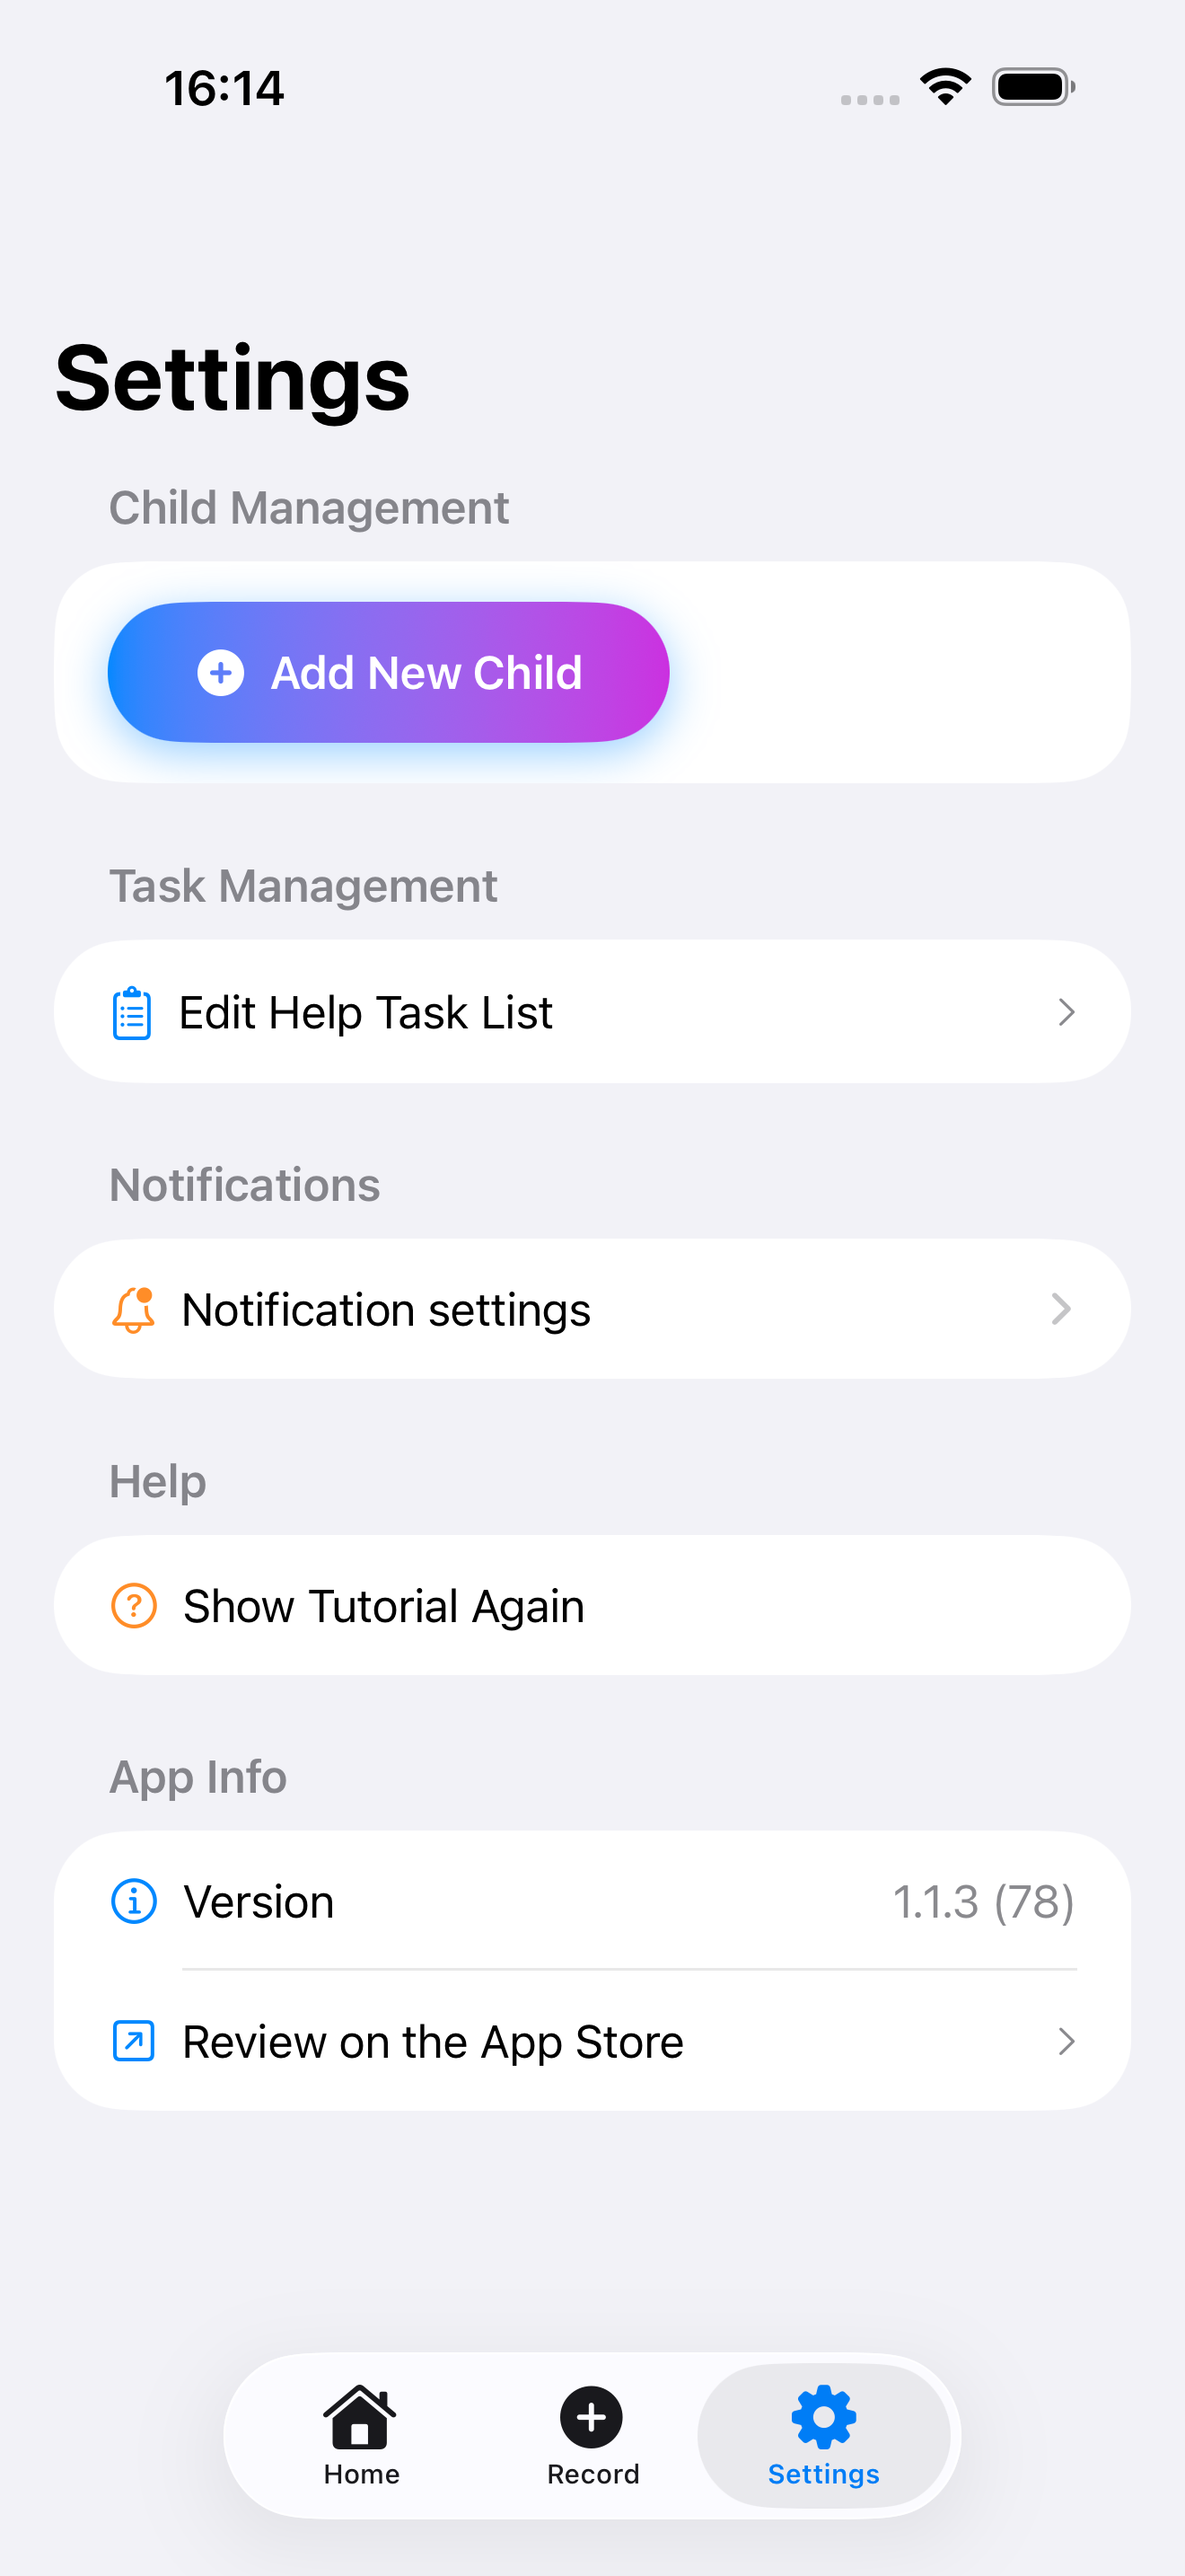
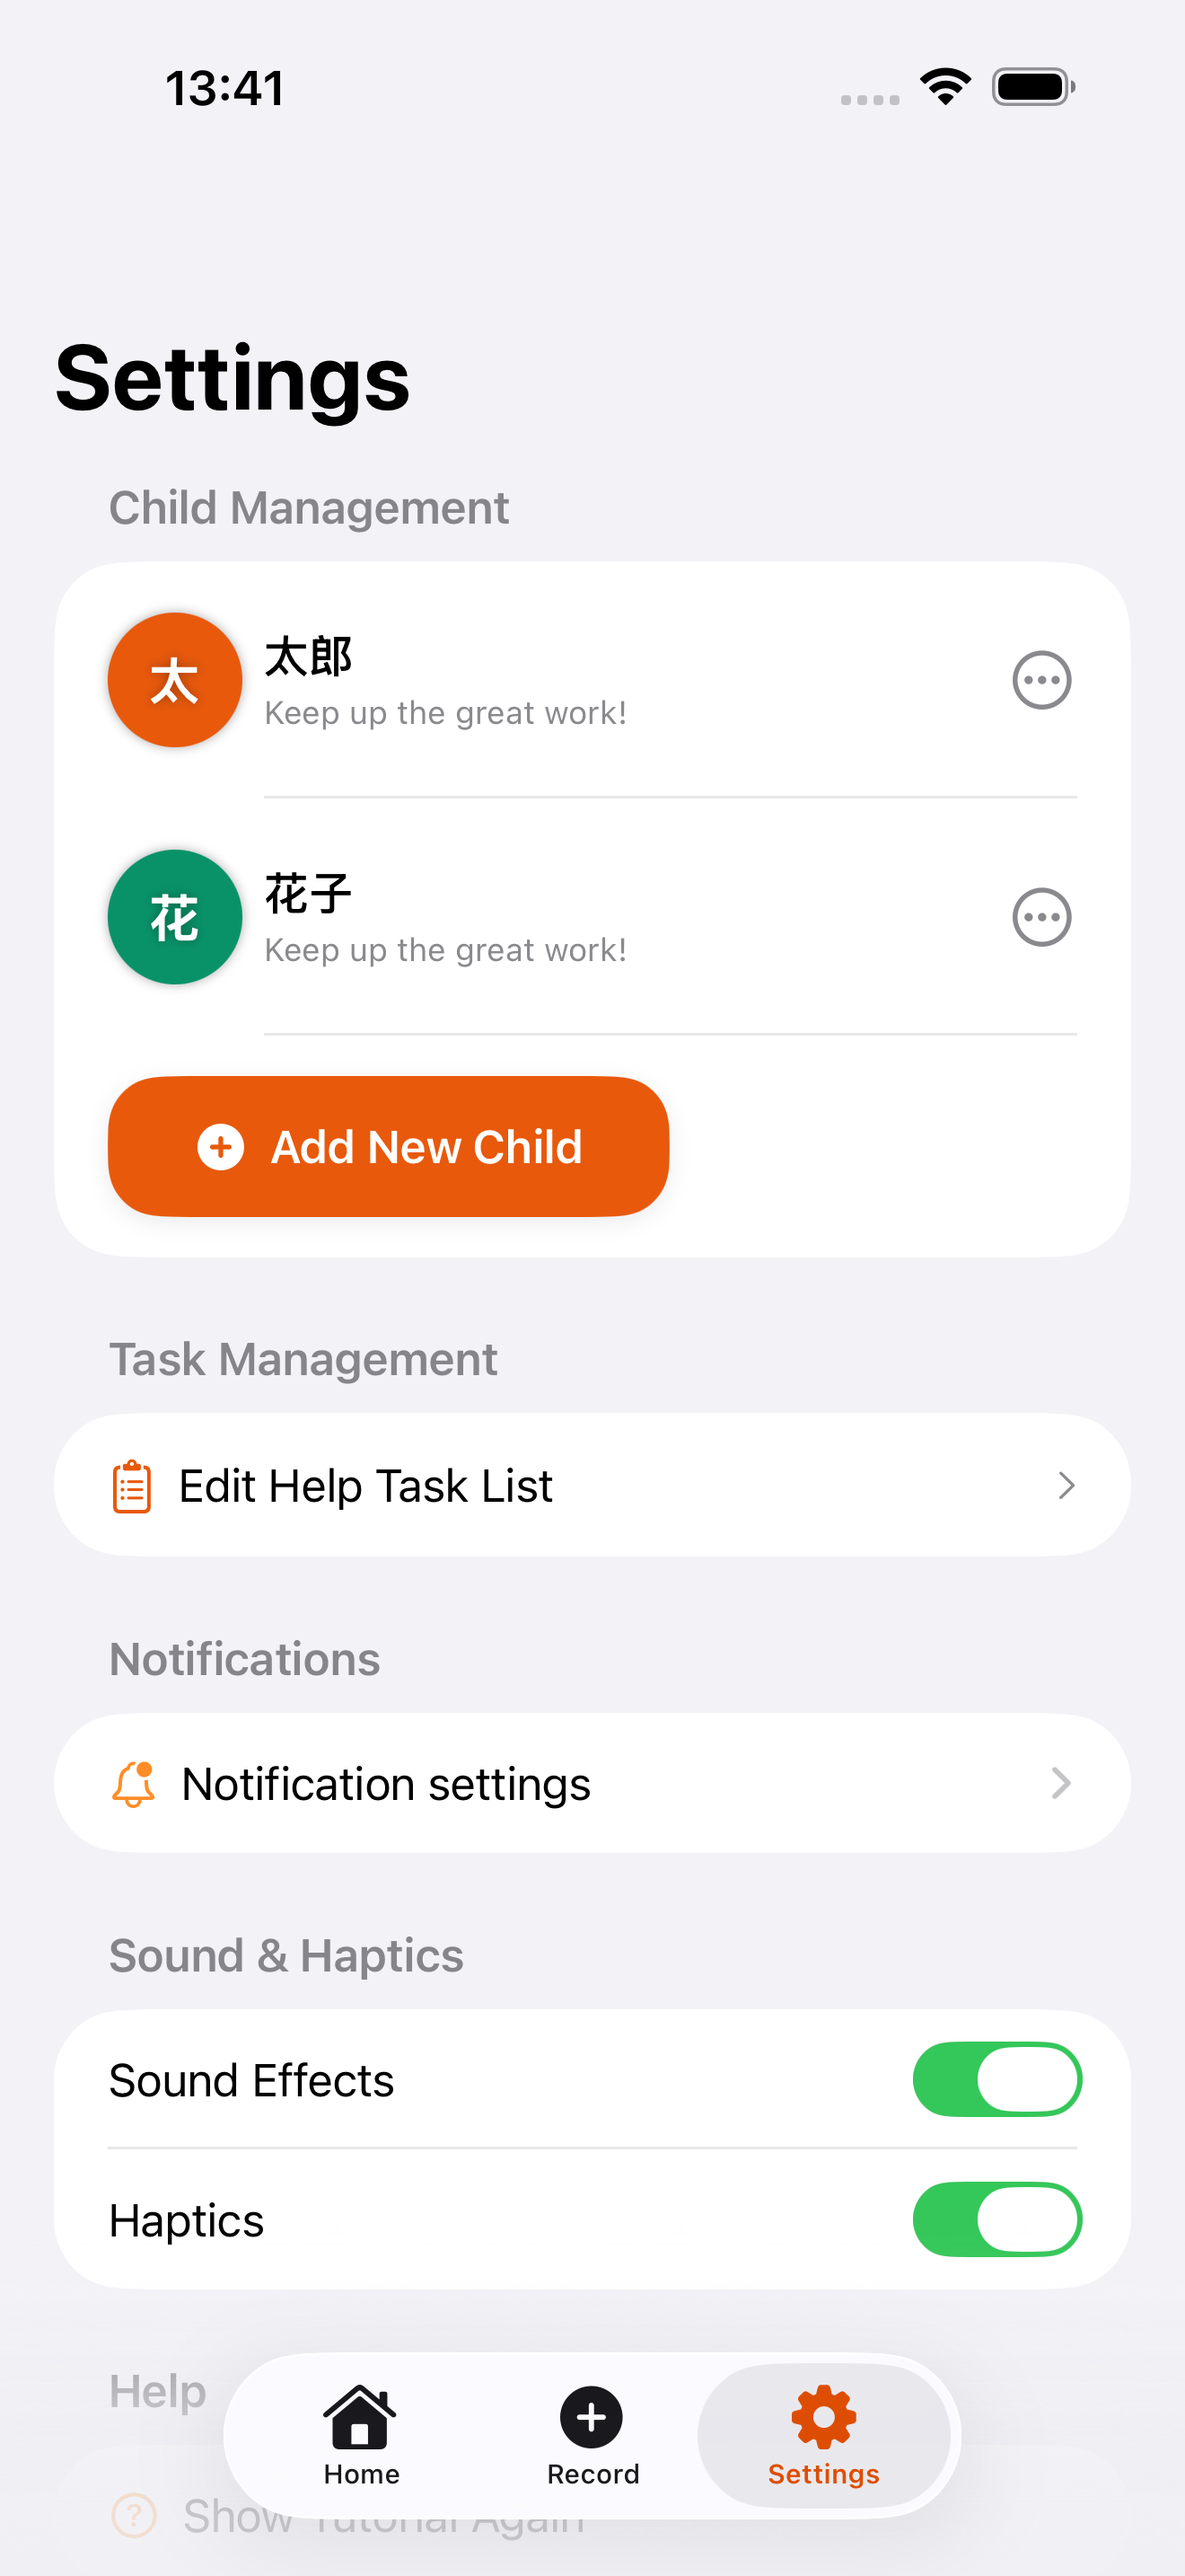
release: v1.1.4 (MARKETING_VERSION 1.1.4 / build 119) + 手順書・What's New・ASC スクショ
- v1.1.3 は ASC 未提出だったため変更を v1.1.4 に統合 (#225)
- RELEASE_v1.1.4.md: 1.1.2 (公開中) からの差分で What's New ja/en を作成
- RELEASE_v1.1.3.md に未使用の注記
- fastlane/metadata/en-US の release_notes / promotional_text を v1.1.4 文面へ
- ASC スクショ ja/en を light 固定で再撮影

Refs #225

Claude-Session: https://claude.ai/code/session_01EyFKuKWwFACwRXBfUsED4s

diff --git a/docs/releases/RELEASE_v1.1.4.md b/docs/releases/RELEASE_v1.1.4.md
@@ -1,0 +1,159 @@
+# v1.1.4 リリース手順書
+
+このドキュメントは v1.1.4 を App Store Connect (ASC) へ提出するための手順書です。ASC への入力は `asc-submission-prep` skill (Chrome 経路) で行い、「審査へ提出」だけを人が押します。追跡 issue: #225。
+
+## 0. 前提条件
+
+- ASC で公開中: **1.1.2** (ビルド 72、2026-05-24 公開)。2026-09-27 に iTunes Lookup API と ASC 配信タブで実測
+- **1.1.3 は一度も提出していない** (`v1.1.3` タグと `RELEASE_v1.1.3.md` はあるが、ASC にバージョンレコードが無い)。1.1.3 用の変更は本リリースにすべて含める
+- Marketing Version: **1.1.4** (公開中 1.1.2 より高く、CI gate の基準タグ `v1.1.3` よりも高い)
+- Build Number: pbxproj は **119** (TestFlight 上の 1.1.3 ビルドの最新 118 から +1)。Xcode Cloud は独自に採番するので、実際に紐付けるビルド番号は TestFlight で確認する
+- ASC Age Rating で「広告」=「はい」(#86、AdMob 統合済みのため必須)
+
+> 着手前に公開中の version を実測する (CLAUDE.md「公開中の version を実測」ルール):
+>
+> ```bash
+> curl -s "https://itunes.apple.com/lookup?id=6747692379&country=jp" | jq -r '.results[0] | .version, .currentVersionReleaseDate'
+> ```
+
+## 1. App Store Connect での作業 (`asc-submission-prep`)
+
+| 手順 | 担当 | 備考 |
+|---|---|---|
+| dry-run で差分表を作る | Claude | 書き込み 0 件 |
+| 差分表の一括 OK | 人 | 表に無い書き込みはしない |
+| バージョン `1.1.4` の作成 | Claude (OK 後) | 作成したバージョンは消せない |
+| What's New (ja / en)・プロモーションテキストの入力 | Claude (OK 後) | § 2 の文面 |
+| en スクショの反映 | Claude (OK 後) | § 1.1 |
+| ビルドの紐付け | Claude (OK 後) | バージョン 1.1.4・提出準備完了の最新ビルド |
+| 年齢制限の新しい質問 (ソーシャルメディア関連)・App Privacy・輸出コンプライアンス | **人** | 申告なので Claude は回答しない。輸出コンプライアンスは従来どおり「使用しません (exempt)」、ATT / IDFA は「いいえ」 |
+| 「審査用に追加」→「審査へ提出」 | **人** | |
+
+### 1.1 スクリーンショット
+
+- `./scripts/capture-asc-screenshots.sh` で ja / en の 3 画面を撮り直した (#218 で撮影時は light 固定)。出力は `docs/screenshots/asc/v1.1.x/{ja,en}/`
+- **ja**: ASC にはデザイン済みのマーケティング画像 (黄色背景 + 見出し付き) が入っているため、生のスクショでは置き換えない
+- **en**: ASC では ja 6.9" の画像を流用している (en 用は未登録、#50)。en の生スクショを登録するかどうかは差分表の確認時に決める
+
+### 1.2 変更しない項目
+
+アプリ名・サブタイトル・説明文・キーワード・サポート URL・価格・配信地域は変更しない。en の説明文とキーワードは `fastlane/metadata/en-US/` と ASC の内容が一致している (2026-09-27 に字数で確認)。
+
+## 2. 文言ドラフト
+
+### 2.1 このバージョンの新機能 (What's New) — ja
+
+> 対象は 1.1.2 (公開中) → 1.1.4 の差分。1.1.2 で案内済みの「一括モード」「重複記録の警告」は含めない。
+
+```text
+バージョン 1.1.4 では、お手伝いの記録をもっと楽しく、見やすくするアップデートをまとめてお届けします ✨
+
+✨ 新機能
+・お手伝いに絵文字アイコンを付けられるようになりました。お手伝いの追加・編集画面で好きな絵文字を選べます
+・お手伝いの並び順を自由に入れ替えられるようになりました。「よく使う順」ボタンで一発で並べ替えることもできます
+・記録画面にカレンダーを追加しました。記録した日がひと目で分かります
+・「月のまとめ」画面をリニューアルし、カレンダーとお小遣いの支払いを 1 つの画面で確認できるようになりました
+・記録やお手伝いを選んだときに、振動で手ごたえが伝わるようになりました。設定画面の「サウンドと触覚」で効果音と振動をそれぞれオン/オフできます
+
+🎨 デザインの改善
+・アプリ全体の色をオレンジを基調にしたデザインに刷新し、お子様のアイコンの色も 12 色から選べるようになりました
+・ダークモードと大きな文字サイズでの見やすさを改善しました
+
+🐛 不具合修正と改善
+・記録画面でタブを切り替えると、選択していた内容がリセットされる問題を修正しました
+・通知の設定に失敗したときに、お知らせを表示するようにしました
+・英語表示で、お手伝いの名前や日付・時刻の表記が日本語のままになる問題を修正しました
+・お小遣いの支払い履歴の保存方式を改善しました
+
+引き続きおてつだいコインを楽しんでお使いください！
+```
+
+### 2.2 プロモーションテキスト (170 字以内、申請後も更新可)
+
+**ja**:
+
+```text
+お手伝いに絵文字アイコンを付けて、記録をもっと楽しく。記録画面のカレンダーで、がんばった日がひと目で分かります。
+```
+
+**en** (plain text, no emojis):
+
+```text
+Give each chore its own emoji and see every recorded day on the new calendar. Recording chores is now more fun and easier to follow.
+```
+
+### 2.3 審査ノート (Review Notes)
+
+```text
+v1.1.4 の主な変更点 (公開中の v1.1.2 からの差分):
+- タスクの絵文字アイコンと絵文字ピッカー
+- タスクの並べ替え (ドラッグ / よく使う順)
+- 記録画面のカレンダー、月のまとめ画面の刷新
+- 触覚フィードバックの追加と、効果音・触覚の ON/OFF トグル (設定画面)
+- 配色の刷新、ダークモード / Dynamic Type の改善
+- 英語表示の改善
+
+This app does not require sign-in. No children are pre-registered (default chores are); please add a child from the Home screen or the Settings tab to try recording chores.
+If you would like to verify the English localization, please run the app with the system language set to English.
+```
+
+### 2.4 What's New (en)
+
+> ⚠ **plain text only, no emojis** (#85)。
+
+```text
+Version 1.1.4 brings a round of updates that make recording chores more fun and easier to follow.
+
+New
+- Chores can now have emoji icons. Pick any emoji when you add or edit a chore.
+- Reorder your chores freely, or sort them by how often they are used with one tap.
+- The recording screen now has a calendar, so you can see at a glance which days have records.
+- The Monthly Summary screen has been redesigned to show the calendar and allowance payments together.
+- Added haptic feedback when you record or select chores. Sound effects and haptics can each be turned on or off under Sound & Haptics in Settings.
+
+Design
+- Refreshed the app's colors around a warm orange theme, with 12 new avatar colors for your children.
+- Improved readability in Dark Mode and with larger text sizes.
+
+Fixes and improvements
+- Fixed an issue where switching tabs reset the selection on the recording screen.
+- The app now shows a message when setting up a notification fails.
+- Fixed chore names, dates and times that stayed in Japanese when the app is used in English.
+- Improved how allowance payment history is stored.
+
+Thank you for using Otetsudai Coin!
+```
+
+## 3. 提出前チェックリスト
+
+### コード / プロジェクト
+
+- [x] `MARKETING_VERSION` = `1.1.4` (公開中 1.1.2・基準タグ v1.1.3 より高い) ← ITMS-90062 対策
+- [x] `CURRENT_PROJECT_VERSION` = `119` (TestFlight 最新 118 より高い) ← ITMS-90186 / 90478 対策
+- [ ] `release-version-bump-check.yml` が green
+- [ ] ユニットテストが green
+- [ ] **Core Data の上書きインストール確認 (必須)**: 1.1.2 (model **v1**、支払い履歴は **UserDefaults**) をインストールしたシミュレータで、お子様・お手伝い・記録・支払いのデータを作る → 1.1.4 のビルドを上書きインストールして起動 → (a) クラッシュしない、(b) お子様・記録・支払い履歴が消えていない、(c) お手伝いに絵文字アイコンが表示される (v4 の icon 属性)、を目視確認する。v1 → v4 の 3 段移行 (#122 v2 / #142 v3 / #148 v4) と、支払い履歴の UserDefaults → Core Data 移行 (#142) の初出荷
+- [ ] ja / en 両方のロケールで起動を確認
+
+### App Store Connect
+
+- [ ] `asc-submission-prep` の dry-run 差分表を確認し、一括 OK
+- [ ] バージョン `1.1.4` を作成、ビルドを紐付け
+- [ ] What's New (ja § 2.1 / en § 2.4)・プロモーションテキスト (§ 2.2)・審査ノート (§ 2.3) を入力
+- [ ] 年齢制限: 「広告」=「はい」、ソーシャルメディア関連の新しい質問に回答 (人)
+- [ ] App Privacy・輸出コンプライアンスを確認 (人)
+
+### 提出
+
+- [ ] 「審査用に追加」→「審査へ提出」(人)
+
+## 4. 完了後タスク
+
+- [ ] **承認されたら**すぐ `git tag -a v1.1.4 -m "v1.1.4" && git push origin v1.1.4` (承認前にタグを打たない。v1.1.3 はタグだけ先行して出荷と誤認された)
+- [ ] GitHub Release を作成 (§ 2.1 / § 2.4)
+- [ ] #225 を close、#50 の残り (en スクショ・What's New) を反映できていれば #50 も close
+- [ ] `release-retrospective` skill で振り返り
+
+## 5. 振り返り (Retrospective)
+
+> リリース完了後に `release-retrospective` skill で記入する。

diff --git a/docs/releases/RELEASE_v1.1.3.md b/docs/releases/RELEASE_v1.1.3.md
@@ -1,5 +1,7 @@
 # おてつだいコイン v1.1.3 リリース手順
 
+> ⚠ **この手順書は使われていません (2026-09-27 追記)**: v1.1.3 は ASC に一度も提出されず (バージョンレコード無し、公開中は 1.1.2 のまま)、変更はすべて **v1.1.4 に統合**しました。`v1.1.3` タグはありますが出荷を意味しません。最新の手順は [`RELEASE_v1.1.4.md`](RELEASE_v1.1.4.md)、経緯は #225 を参照してください。
+
 このドキュメントは v1.1.3 (Build 78) を App Store Connect へ提出するための手順書です。`RELEASE_v1.1.2.md` をベースに、v1.1.2 提出時に踏んだ ITMS-90186 / ITMS-90062 reject の経緯を反映しました。
 
 ## 0. 前提条件
